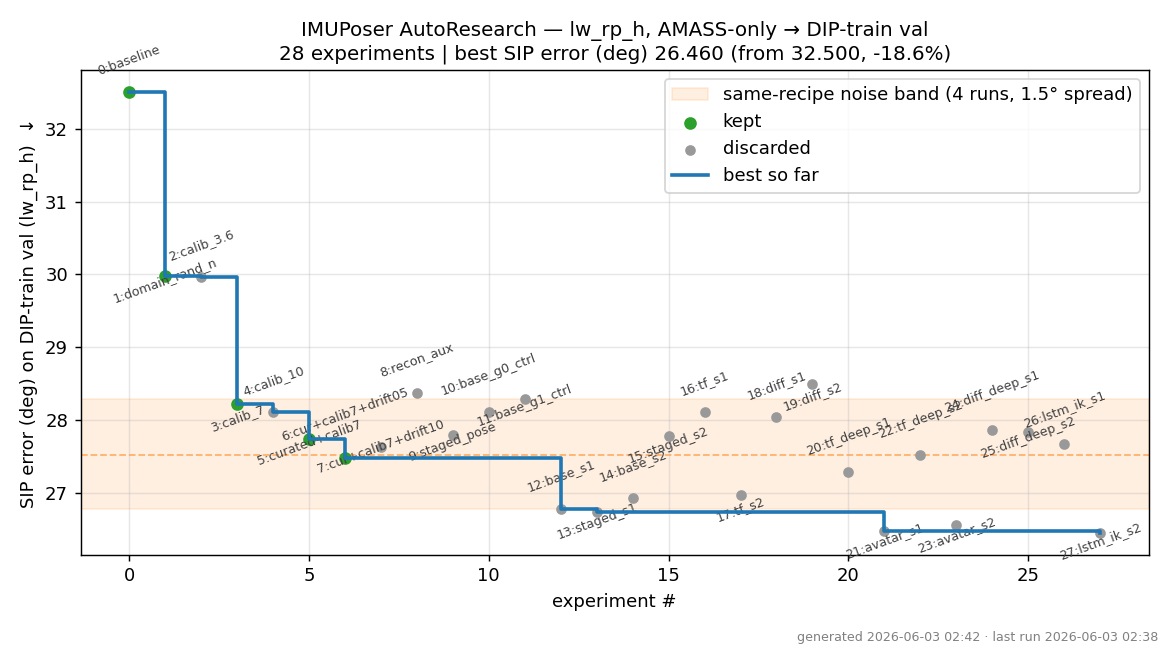
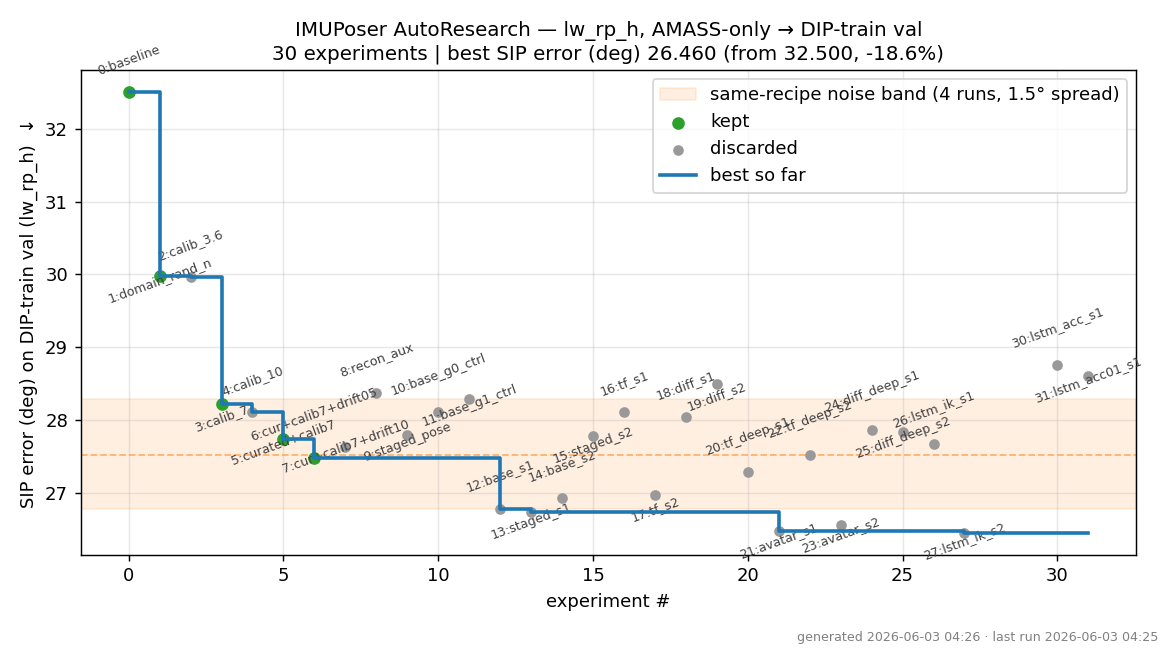
ar exp30-31: acceleration-consistency loss hurts the LSTM (physics-refinement attempt)
ACC_LOSS on LSTM: w=1.0 -> 28.76, w=0.1 -> 28.61 vs plain LSTM 26.79 (+1.8-2.0, ~weight-independent).
Joint-proxy + coarse 25fps 2nd-difference is too noisy a target and derails early training. Negative
result recorded. Codebook (exp32) + CNN (exp28) training. Graph/doc updated.

diff --git a/ADDITIONAL_EXPERIMENTS.md b/ADDITIONAL_EXPERIMENTS.md
@@ -307,3 +307,14 @@ geometric grounding the *attention* model lacks, but the *LSTM's recurrence alre
 consistency*, so the extra constraint just over-regularizes / adds noise. **The lever is "weak backbone
 + IK", not "IK universally".** Net: nothing has cleanly beaten the plain LSTM except AvatarPoser, and
 that only ties-to-slightly-beats it. The LSTM remains the best backbone.
+
+### Physics: acceleration-consistency loss HURTS the LSTM (exp30/31)
+
+Physics-refinement idea (TransPose/PIP/PNP) adapted to our root-relative metric: instead of a
+rigid-body simulator (impractical; mostly fixes global translation/foot-skate we don't measure),
+enforce a Newtonian consistency — predicted motion's synthetic acceleration at the IMU joints must
+match the OBSERVED accelerometer (the signal half the IK term ignores). Result: ACC_W=1.0 → 28.76,
+ACC_W=0.1 → 28.61 vs plain LSTM seed1 26.79, i.e. **+1.8–2.0° WORSE, ~weight-independent**. The
+joint-proxy (vs mounting vertex) + coarse 25fps second-difference is too noisy/biased a target, and
+its large early gradient derails training. Not a useful lever as formulated. (A faithful version would
+need vertex-accurate FK + the true 60fps synthesis, i.e. mesh FK every step — too costly here.)
